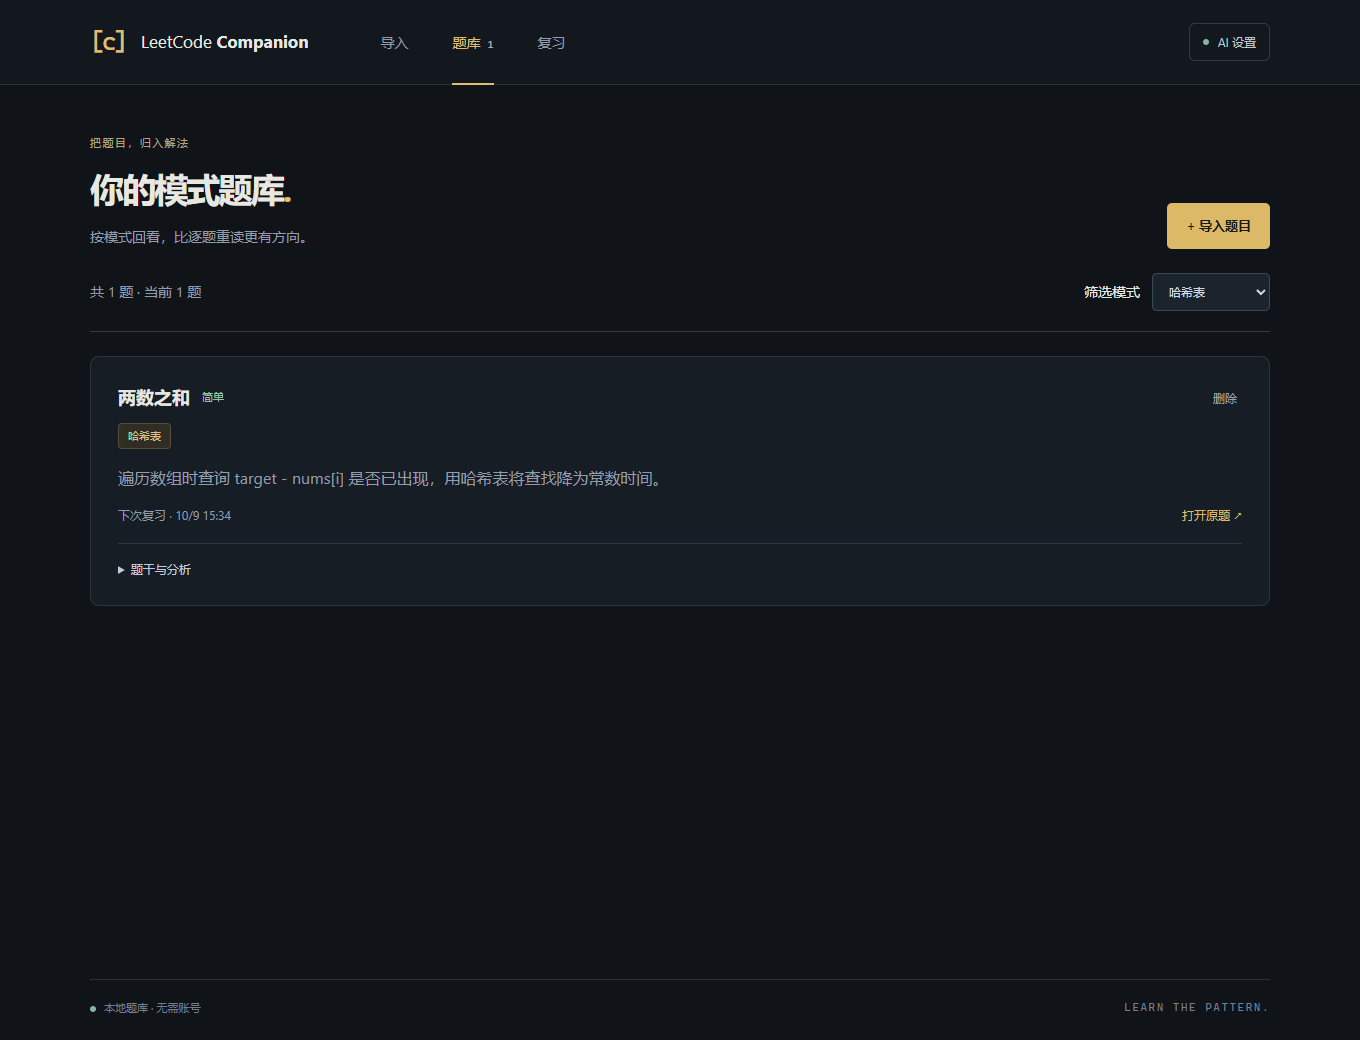
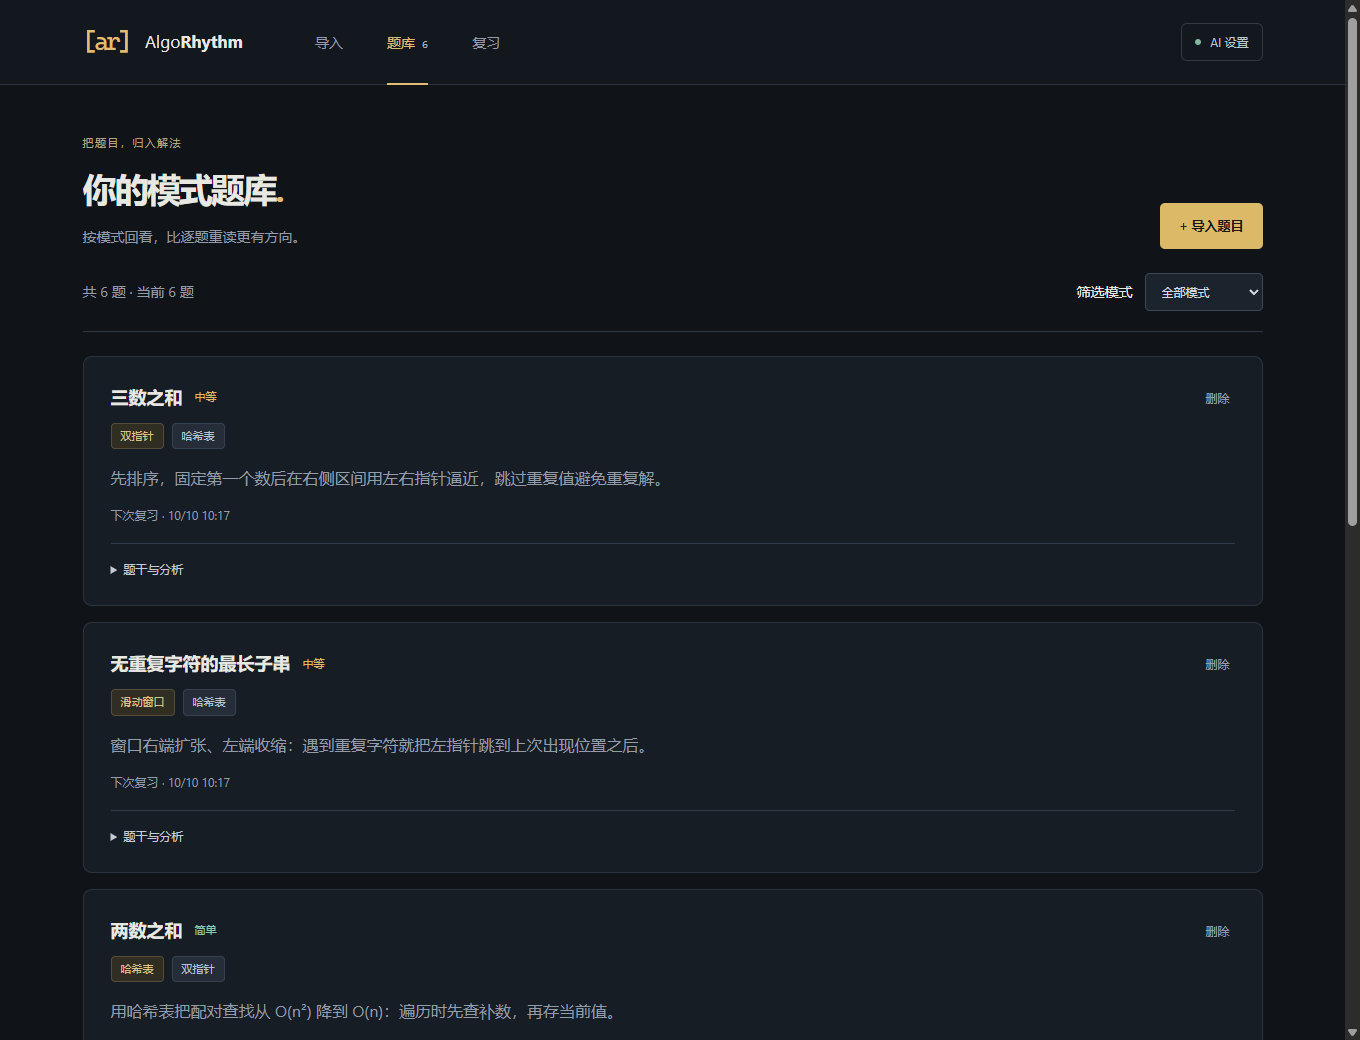
chore: rename project to AlgoRhythm
项目更名：AlgoRhythm = Algorithm + Rhythm，仓库名由 leetcode-companion
改为 algorhythm（旧地址由 GitHub 自动跳转）。仓库设置、话题、讨论区、
分支保护与代码扫描均随仓库保留。

品牌与应用:
- App 头部品牌标记 [c] LeetCode Companion -> [ar] AlgoRhythm。
- index.html 标题、package.json 包名与 description、测试类名同步。
- 日志前缀 [Companion] -> [AlgoRhythm]。

破坏性变更（需用户重新配置）:
- IndexedDB 库名 leetcode-companion -> algorhythm。
- localStorage 键 companion.ai.v1 -> algorhythm.ai.v1。
  以上两项导致旧数据不再被读取：AI 设置需重新填写，此前导入的本地
  题库不会出现在界面中。经用户确认接受，详见 CHANGELOG.md。

文档:
- README 增加使命陈述与英文 Slogan，克隆地址与全部外链更新。
- SECURITY / SUPPORT / CODE_OF_CONDUCT / CONTRIBUTING / CHANGELOG 更新。
- docs/phase-1-plan.md 标注为历史存档，正文保留成文时的旧名。
- docs/project-context.md 修正“仓库仍私有”的过时表述。

素材:
- 五张运行截图按新品牌重拍（隔离浏览器 + 伪造 AI 响应）。
- 社交预览图重新生成，生成脚本改为与目录名无关。

验证: lint、format:check、test(12)、build、git diff --check 全部通过；
浏览器实测品牌为 [ar] AlgoRhythm 且控制台无错误。

diff --git a/tests/core.test.ts b/tests/core.test.ts
@@ -2,7 +2,7 @@ import 'fake-indexeddb/auto';
 import { afterEach, describe, expect, it, vi } from 'vitest';
 import { analyzeProblem, parseAnalysis } from '../src/ai';
 import { resolveProblemSource } from '../src/source';
-import { CompanionDB, saveReview } from '../src/db';
+import { AlgoRhythmDB, saveReview } from '../src/db';
 import { newCard, Rating } from '../src/fsrs';
 import { PATTERNS } from '../src/patterns';
 import type { Problem } from '../src/types';
@@ -151,7 +151,7 @@ describe('problem source', () => {
 describe('IndexedDB and FSRS', () => {
   it('persists Date values across reopening and atomically prevents duplicate ratings', async () => {
     // 1.2 保存新卡片并重开数据库，验证日期与到期索引
-    const db = new CompanionDB('test-' + crypto.randomUUID());
+    const db = new AlgoRhythmDB('test-' + crypto.randomUUID());
     const now = new Date('2026-10-09T06:00:00Z');
     const problem: Problem = {
       id: crypto.randomUUID(),

diff --git a/src/ai.ts b/src/ai.ts
@@ -183,7 +183,7 @@ export function loadAIConfig(): AIConfig {
   logger.info('开始读取 AI 配置');
   // 1.1 配置损坏时允许用户重新保存，不泄露内容
   try {
-    const raw = localStorage.getItem('companion.ai.v1');
+    const raw = localStorage.getItem('algorhythm.ai.v1');
     const data = raw ? JSON.parse(raw) : {};
     const config = { ...defaults };
     for (const key of ['apiKey', 'baseUrl', 'model'] as const)
@@ -207,7 +207,7 @@ export function saveAIConfig(config: AIConfig): void {
   // 1.1 写入失败由设置页展示，不报告虚假成功
   const clean = validateConfig(config);
   try {
-    localStorage.setItem('companion.ai.v1', JSON.stringify(clean));
+    localStorage.setItem('algorhythm.ai.v1', JSON.stringify(clean));
   } catch {
     throw new Error('无法保存配置，请检查浏览器是否允许本地存储。');
   }

diff --git a/src/db.ts b/src/db.ts
@@ -3,14 +3,14 @@ import type { Problem } from './types';
 import { review, type Grade } from './fsrs';
 import { logger } from './logger';
 
-export class CompanionDB extends Dexie {
+export class AlgoRhythmDB extends Dexie {
   problems!: Table<Problem, string>;
-  constructor(name = 'leetcode-companion') {
+  constructor(name = 'algorhythm') {
     super(name);
     this.version(1).stores({ problems: 'id, primaryPatternId, createdAt, fsrsCard.due' });
   }
 }
-export const db = new CompanionDB();
+export const db = new AlgoRhythmDB();
 export const getAllProblems = () => db.problems.orderBy('createdAt').reverse().toArray();
 export const getDueProblems = (now = new Date()) =>
   db.problems.where('fsrsCard.due').belowOrEqual(now).toArray();

diff --git a/src/App.tsx b/src/App.tsx
@@ -52,9 +52,9 @@ function Workspace() {
               setTab('import');
             }}
           >
-            <span className="brand-mark">{'[c]'}</span>
+            <span className="brand-mark">{'[ar]'}</span>
             <span>
-              LeetCode <strong>Companion</strong>
+              Algo<strong>Rhythm</strong>
             </span>
           </a>
           <nav className="tabs" aria-label="主导航">

diff --git a/index.html b/index.html
@@ -4,7 +4,7 @@
     <meta charset="UTF-8" />
     <meta name="viewport" content="width=device-width, initial-scale=1.0" />
     <meta name="theme-color" content="#101419" />
-    <title>LeetCode Companion</title>
+    <title>AlgoRhythm</title>
   </head>
   <body>
     <div id="root"></div>

diff --git a/src/logger.ts b/src/logger.ts
@@ -1,2 +1,2 @@
 // 日志只记录动作名称，调用方不得传入密钥或题目内容。
-export const logger = { info: (message: string) => console.info(`[Companion] ${message}`) };
+export const logger = { info: (message: string) => console.info(`[AlgoRhythm] ${message}`) };

diff --git a/docs/assets/make_social_preview.py b/docs/assets/make_social_preview.py
@@ -1,6 +1,7 @@
-"""生成 LCC (LeetCode Companion) 的 GitHub 社交预览图（1280x640）。
+"""生成 AlgoRhythm 的 GitHub 社交预览图（1280x640）。
 
 配色取自 src/index.css：底色 #101419、正文 #e8e8e3、强调 #dcb967。
+输出到脚本同级目录的 social-preview.png，与本地仓库目录名无关。
 """
 
 from __future__ import annotations
@@ -16,13 +17,15 @@ W, H = 1280, 640
 BG = (16, 20, 25)
 INK = (232, 232, 227)
 GOLD = (220, 185, 103)
-GOLD_DIM = (150, 126, 70)
 MUTED = (154, 164, 174)
 MUTED_DARK = (127, 138, 149)
 FAINT = (107, 118, 129)
 
 FONT_DIR = Path("C:/Windows/Fonts")
-OUT = Path(r"D:\mydata\myproject\leetcode-companion\docs\assets\social-preview.png")
+OUT = Path(__file__).resolve().parent / "social-preview.png"
+
+LEFT = 80
+TEXT_X = LEFT + 76 + 28
 
 
 def font(name: str, size: int) -> ImageFont.FreeTypeFont:
@@ -58,8 +61,7 @@ def build_background() -> Image.Image:
     grid[:, ::40, :] = 16
     base += grid
 
-    img = Image.fromarray(np.clip(base, 0, 255).astype(np.uint8), "RGB")
-    return img
+    return Image.fromarray(np.clip(base, 0, 255).astype(np.uint8), "RGB")
 
 
 def draw_pattern_graph(img: Image.Image) -> None:
@@ -118,41 +120,46 @@ def main() -> None:
     # 顶部金色细条。
     d.rectangle([0, 0, W, 4], fill=GOLD)
 
-    LEFT = 80
-
-    # 品牌徽标。
-    badge = [LEFT, 78, LEFT + 76, 78 + 76]
+    # 品牌徽标：与应用头部的 [ar] 品牌标记一致。
+    badge = [LEFT, 74, LEFT + 76, 74 + 76]
     d.rounded_rectangle(badge, radius=18, fill=(20, 25, 31), outline=GOLD, width=2)
-    f_badge = font("consolab.ttf", 27)
-    bb = d.textbbox((0, 0), "LCC", font=f_badge)
+    f_badge = font("consolab.ttf", 25)
+    bb = d.textbbox((0, 0), "[ar]", font=f_badge)
     d.text((badge[0] + (76 - (bb[2] - bb[0])) / 2 - bb[0],
             badge[1] + (76 - (bb[3] - bb[1])) / 2 - bb[1]),
-           "LCC", font=f_badge, fill=GOLD)
+           "[ar]", font=f_badge, fill=GOLD)
 
-    text_x = LEFT + 76 + 28
-    d.text((text_x, 84), "LeetCode Companion", font=font("msyhbd.ttc", 46), fill=INK)
-    d.text((text_x, 140), "把刷题变成刷模式", font=font("msyh.ttc", 25), fill=GOLD)
+    # 字标：Algo 常规 + Rhythm 加粗，与应用头部同构。
+    f_algo = font("msyh.ttc", 46)
+    f_rhythm = font("msyhbd.ttc", 46)
+    d.text((TEXT_X, 80), "Algo", font=f_algo, fill=INK)
+    algo_w = d.textbbox((0, 0), "Algo", font=f_algo)[2]
+    d.text((TEXT_X + algo_w, 80), "Rhythm", font=f_rhythm, fill=INK)
 
-    d.line([LEFT, 214, 780, 214], fill=(38, 46, 56), width=1)
+    d.text((TEXT_X, 142), "在算法里找到你的节奏", font=font("msyh.ttc", 25), fill=GOLD)
+    d.text((TEXT_X, 178), "Find your rhythm in algorithms.",
+           font=font("consola.ttf", 18), fill=MUTED_DARK)
 
-    d.text((LEFT, 244), "AI 提炼解题模式 · 主动回忆 · FSRS 间隔重复",
+    d.line([LEFT, 226, 800, 226], fill=(38, 46, 56), width=1)
+
+    d.text((LEFT, 252), "AI 提炼解题模式 · 主动回忆 · FSRS 间隔重复",
            font=font("msyh.ttc", 25), fill=MUTED)
 
     f_body = font("msyh.ttc", 21)
-    d.text((LEFT, 300), "粘贴题目 → 归纳为 16 种算法模式 → 存入本地题库",
+    d.text((LEFT, 308), "粘贴题目 → 归纳为 16 种算法模式 → 存入本地题库",
            font=f_body, fill=MUTED_DARK)
-    d.text((LEFT, 340), "→ 先独立回忆 → 揭示洞察与骨架 → FSRS 安排下次复习",
+    d.text((LEFT, 348), "→ 先独立回忆 → 揭示洞察与骨架 → FSRS 安排下次复习",
            font=f_body, fill=MUTED_DARK)
 
     f_chip = font("msyh.ttc", 18)
     x = LEFT
     for label in ("React 18", "TypeScript", "Vite 6", "Tailwind 4",
                   "Dexie", "ts-fsrs", "纯前端 · 本地优先"):
-        x = chip(d, x, 452, label, f_chip)
+        x = chip(d, x, 458, label, f_chip)
 
-    d.text((LEFT, 546), "无需后端 · 无需账号 · Key 只留在你自己的浏览器",
+    d.text((LEFT, 550), "无需后端 · 无需账号 · Key 只留在你自己的浏览器",
            font=font("msyh.ttc", 19), fill=FAINT)
-    d.text((LEFT, 580), "github.com/harbinresearcher/leetcode-companion",
+    d.text((LEFT, 584), "github.com/harbinresearcher/algorhythm",
            font=font("consola.ttf", 17), fill=(88, 98, 108))
 
     OUT.parent.mkdir(parents=True, exist_ok=True)

diff --git a/docs/STATUS.md b/docs/STATUS.md
@@ -1,10 +1,10 @@
-# LCC 当前进度
+# AlgoRhythm 当前进度
 
-更新日期：2026-10-09（Asia/Shanghai）。每次工作结束必须更新此文件；当前事实以此为准，未来计划见 [ROADMAP.md](ROADMAP.md)。
+更新日期：2026-10-10（Asia/Shanghai）。每次工作结束必须更新此文件；当前事实以此为准，未来计划见 [ROADMAP.md](ROADMAP.md)。
 
 ## 当前阶段
 
-第一阶段 / P0：本地 MVP 功能已实现，模拟 AI 闭环已验证；真实 AI 分类验收尚未完成。仓库已公开（MIT），`main` 已启用分支保护；本轮完成公开仓库的安全加固与社区健康文件。
+第一阶段 / P0：本地 MVP 功能已实现，模拟 AI 闭环已验证；真实 AI 分类验收尚未完成。仓库已公开（MIT）并更名为 **AlgoRhythm**（仓库名 `algorhythm`），`main` 已启用分支保护；上一轮完成公开仓库的安全加固与社区健康文件。
 
 ## 已完成
 
@@ -20,6 +20,7 @@
 - README 增加徽章与「贡献与支持」入口，并修正“仓库私有”“暂不启用 CI”等过时表述；CONTRIBUTING 补充分支保护、推送保护与社区规范。
 - `main` 分支保护：要求 PR 合入、禁止强推与删除分支，仓库所有者保留应急旁路。
 - 仓库描述、16 个话题标签、GitHub Discussions（含 Q&A 分类）与社交预览图素材。
+- 2026-10-10 项目更名为 **AlgoRhythm**：应用品牌（`[ar] AlgoRhythm`）、`package.json` 包名、页面标题、日志前缀、内部存储标识、全部文档与五张运行截图同步更新；`docs/phase-1-plan.md` 标注为历史存档并保留正文原貌。
 
 ## 进行中
 
@@ -34,6 +35,16 @@
 - 手动确认 Settings → Advanced Security 中的 validity checks 与 non-provider patterns（API 无法开启）。
 
 ## 本轮验证
+
+更名轮（2026-10-10）：
+
+- 全仓检索旧名（`LCC` / `LeetCode Companion` / `leetcode-companion` / `CompanionDB` / `[Companion]` / `companion.ai.v1`）：除 `CHANGELOG.md`（记录本次更名）、`docs/HANDOFF.md`（历史条目）与 `docs/phase-1-plan.md`（历史存档）三处有意保留外，无残留。
+- 命名脚本对 17 个文件执行 32 处替换，每处都带出现次数断言，全部命中，无静默漏改。
+- 本提交已 rebase 到 `f18fe94`（PR #1：链接导入修复）之上。4 处冲突手工合并：ARCHITECTURE 的存储标识改名与 `source.ts` / Jina Reader 说明合并保留；测试改用 `AlgoRhythmDB` 且保留 `resolveProblemSource`；两张截图取远端较新版本后按新品牌重拍。
+- npm run lint、npm run format:check、npm test（17 项）、npm run build、git diff --check：全部通过。
+- 隔离浏览器实测（合并后的新 UI）：`a.brand` 渲染为 `[ar] AlgoRhythm`，页面标题为 `AlgoRhythm`，控制台无错误；导入三数之和 / 无重复字符的最长子串 / 两数之和成功，成功浮层为「导入成功：三数之和」。AI 响应由请求拦截伪造，含新契约要求的 `isAlgorithmProblem: true`。
+- 五张运行截图在合并后代码上重拍：import 1345×1775、library 1360×1040、review-recall 1360×1040、review 1345×1798、mobile 375×1907。含滚动条的整页截图宽度比视口少 15px，属预期。
+- 社交预览图重新生成：1280×640，字标改为 Algo 常规 + Rhythm 加粗，徽标为 `[ar]`，底部地址为新仓库名。
 
 仓库公开与安全配置轮（2026-10-09）：
 

diff --git a/README.md b/README.md
@@ -1,4 +1,4 @@
-# LCC (LeetCode Companion)
+# AlgoRhythm
 
 [![License: MIT](https://img.shields.io/badge/License-MIT-yellow.svg)](LICENSE)
 [![Node.js](https://img.shields.io/badge/Node.js-%5E22.12%20%7C%7C%20%5E24%20%7C%7C%20%3E%3D26-339933?logo=nodedotjs&logoColor=white)](package.json)
@@ -8,17 +8,19 @@
 [![Tailwind CSS 4](https://img.shields.io/badge/Tailwind_CSS-4-06B6D4?logo=tailwindcss&logoColor=white)](https://tailwindcss.com/)
 [![FSRS](https://img.shields.io/badge/FSRS-ts--fsrs-8B5CF6)](https://github.com/open-spaced-repetition/ts-fsrs)
 
-AI 驱动的算法刷题伴侣，把刷题变成刷模式。纯前端、本地运行。
+> **AlgoRhythm** 是一款开源的算法学习伴侣。它通过 AI 将题目归类到 16 种核心模式，并结合 FSRS 间隔重复算法，帮你掌握解题的“节奏”，真正摆脱“刷完就忘”。
 
-粘贴题目 → AI 提炼模式与解法 → 存入本地题库 → 主动回忆 → FSRS 安排下次复习。
+*Find your rhythm in algorithms.* 名字读作 Algo-Rhythm（Algorithm + Rhythm）；搜索项目时注意拼写不是 AlgoRythm。
+
+纯前端、本地运行。粘贴题目 → AI 提炼模式与解法 → 存入本地题库 → 主动回忆 → FSRS 安排下次复习。
 
 ## 快速开始
 
 需要 Node.js 22.12+（22.x）、24.x 或 26+。仓库公开，直接克隆即可。
 
 ```sh
-git clone https://github.com/harbinresearcher/leetcode-companion.git
-cd leetcode-companion
+git clone https://github.com/harbinresearcher/algorhythm.git
+cd algorhythm
 npm install && npm run dev
 ```
 
